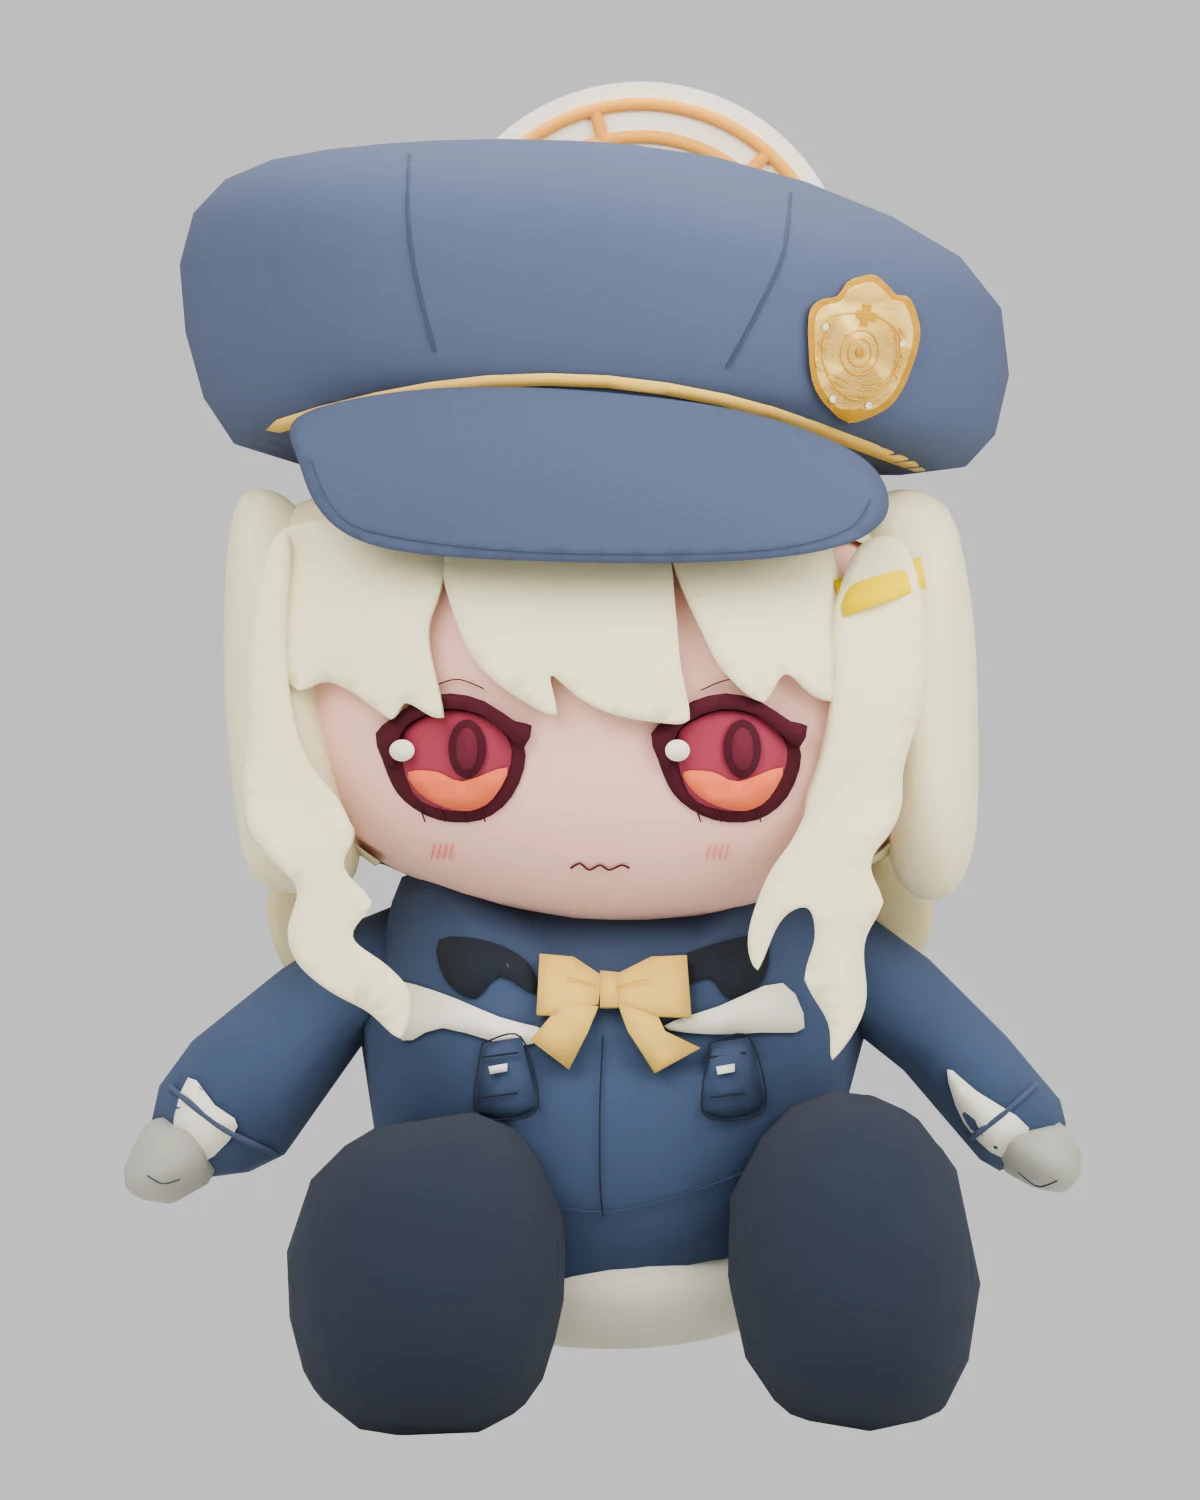
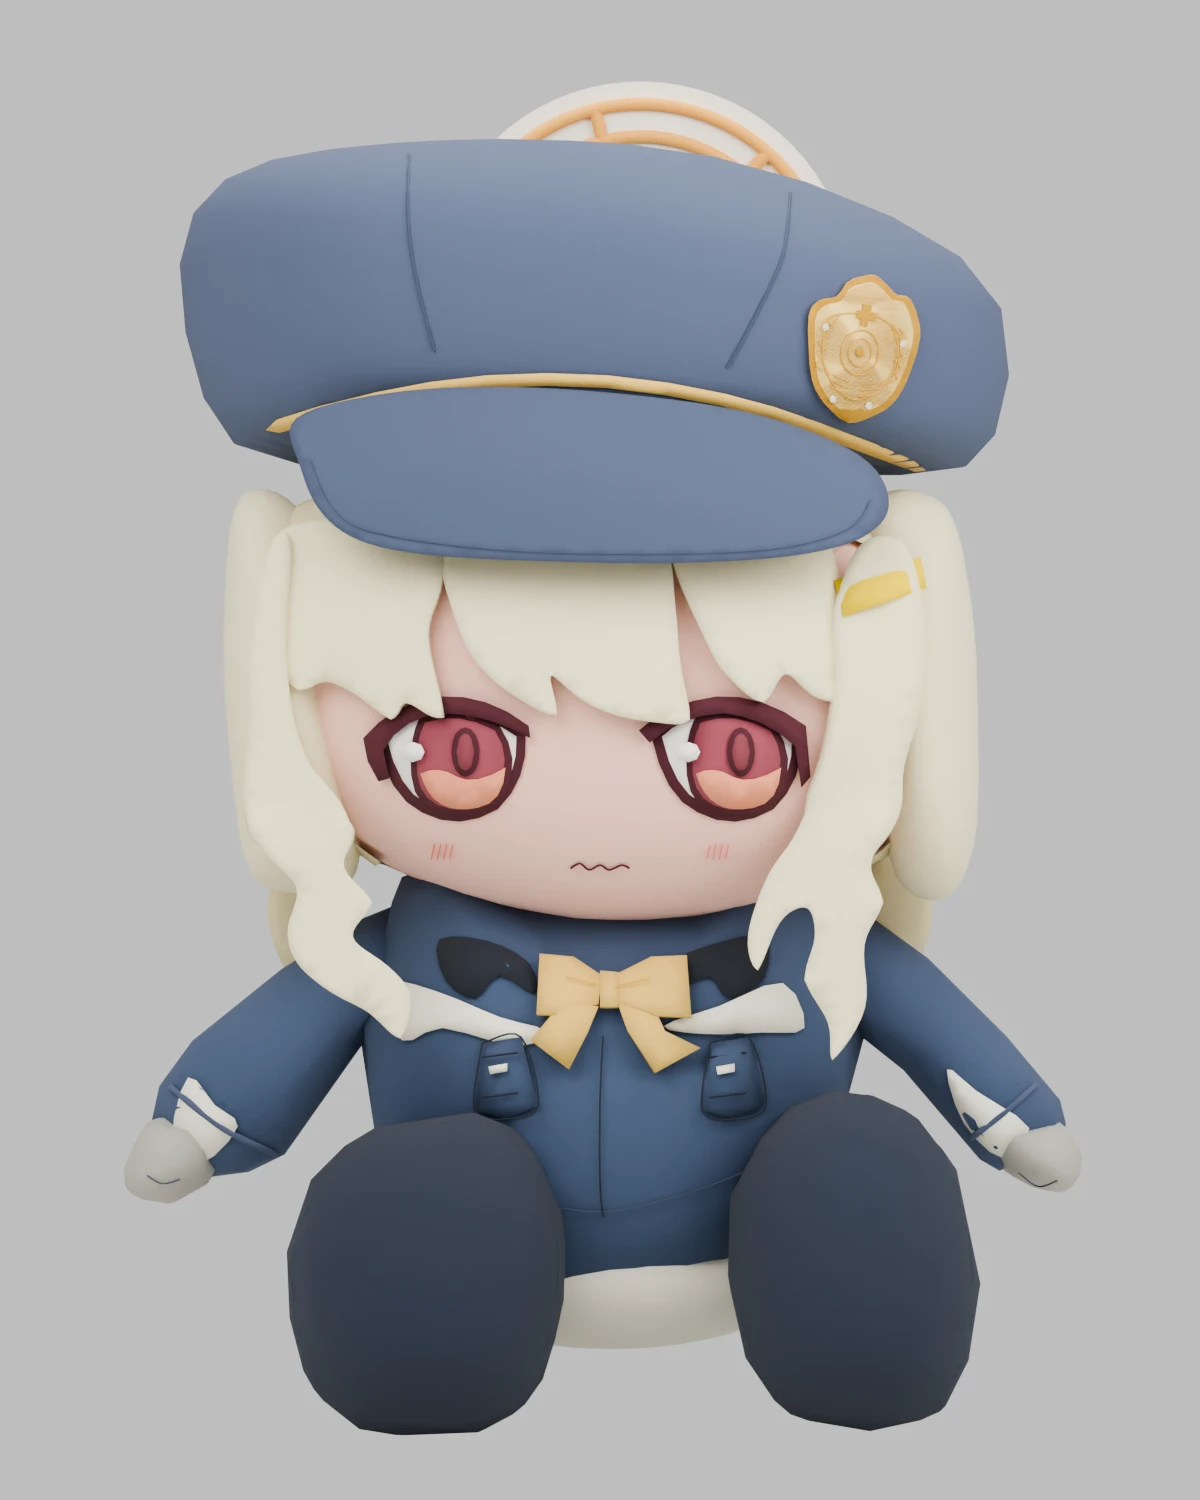
fix: restore Aoba scleras and soften eye embroidery
Assisted-by: codex:gpt-6-astra

Changed region(s): [[0.5242, 0.46, 0.6783, 0.552], [0.3083, 0.46, 0.4317, 0.552]]

diff --git a/model_aoba.py b/model_aoba.py
@@ -11,6 +11,7 @@ sys.path.insert(0, str(Path(__file__).parent))
 from plush_variants import (load_template, remove, color_material, surface, panel, seam,
                             oval, ellipsoid, mesh_object, warp, save)
 from restore_halo import felt, thread, attach
+from fix_eyes import rebuild_eyes
 
 parser = argparse.ArgumentParser(description=__doc__)
 parser.add_argument('--reference', help='Product photo; otherwise reuse the saved model reference')
@@ -28,10 +29,7 @@ glove = color_material('Aoba | grey mittens', (.68,.67,.63), '01 | warm peach sh
 ivory = mat['09 | ivory embroidery']
 bow = color_material('Aoba | butter yellow bow', (.92,.76,.41), '09 | ivory embroidery')
 clip = color_material('Aoba | yellow hair clip', (.98,.83,.035), '09 | ivory embroidery')
-outline = color_material('Aoba | burgundy eye outline', (.32,.10,.16), '14 | chocolate eye outlines')
-iris = color_material('Aoba | wine iris', (.63,.25,.32), '12 | amber iris satin stitch')
-iris_light = color_material('Aoba | coral iris', (.93,.47,.33), '13 | butter iris satin stitch')
-pupil = color_material('Aoba | dark rose pupils', (.43,.16,.22), '15 | brown pupils')
+outline = color_material('Aoba | burgundy face thread', (.32,.10,.16), '14 | chocolate eye outlines')
 halo_gold = color_material('Aoba | orange gold halo print', (.94,.67,.32), '04 | green sewing thread')
 stitch = mat['19 | dark blue sewing thread']
 # Preserve the approved depth fields and their existing edge extrapolation.
@@ -175,33 +173,11 @@ for side,points in [
               surface(obj, fallback='nearest'),clip,bone='hair_front.R',offset=.012,smooth=0,thickness=.008)
 
 # Wine-red embroidered eyes and the small wavering mouth.
+rebuild_eyes(root, 'Aoba')
 for side,shift in [('L',0),('R',178)]:
     shifted = lambda points: [(x+shift,y) for x,y in points]
-    panel(root,'Face | burgundy eye outline '+side,
-          shifted([(233,493),(246,477),(266,468),(291,469),(316,482),(327,503),
-                   (318,530),(298,545),(271,545),(249,533),(238,516)]),
-          face,outline,step=.035)
-    panel(root,'Face | wine iris '+side,
-          shifted([(246,493),(261,479),(282,474),(306,482),(318,500),
-                   (311,524),(295,537),(273,538),(254,527)]),
-          face,iris,offset=.013,step=.035)
-    panel(root,'Face | coral iris '+side,
-          shifted([(251,514),(270,514),(286,520),(315,511),(306,531),
-                   (291,539),(273,536),(258,527)]),
-          face,iris_light,offset=.018,step=.035)
-    oval(root,'Face | pupil border '+side,(289+shift,499),(12,19),face,outline,offset=.023,step=.03)
-    oval(root,'Face | rose pupil '+side,(289+shift,499),(7,14),face,pupil,offset=.027,step=.03)
-    panel(root,'Face | soft upper lashes '+side,
-          shifted([(230,489),(241,479),(257,468),(278,463),(300,468),(320,481),
-                   (331,484),(326,498),(315,490),(298,477),(276,473),(252,482),
-                   (244,496),(241,511),(234,505)]),
-          face,outline,offset=.030,step=.035,smooth=2)
-    oval(root,'Face | ivory glint '+side,(247+shift,500),(8,7),face,ivory,offset=.034,step=.03)
     seam(root,'Face | eyebrow '+side,shifted([(262,461),(282,454),(300,460)]),
          face,outline,radius=.0018)
-    for j in range(4):
-        seam(root,'Face | lower lash '+side,shifted([(259+j*13,537),(262+j*13,546)]),
-             face,outline,radius=.002)
     for j in range(4):
         x = 268+shift+j*4
         seam(root,'Face | blush '+side,[(x,561),(x-2,570)],face,

diff --git a/fix_eyes.py b/fix_eyes.py
@@ -35,7 +35,7 @@ def rebuild_eyes(root, student):
 
 if __name__ == '__main__':
     parser = argparse.ArgumentParser(description=__doc__)
-    parser.add_argument('--student', choices=['Hikari'], required=True)
+    parser.add_argument('--student', choices=['Hikari', 'Aoba'], required=True)
     parser.add_argument('--output', type=Path)
     args = parser.parse_args(sys.argv[sys.argv.index('--')+1:] if '--' in sys.argv else [])
     root = bpy.data.objects[f'{args.student.upper()} | 170 mm reference plush']

diff --git a/README.md b/README.md
@@ -40,6 +40,10 @@ The cream bob and curls, red eyes, yellow bow and hair clip, soft cap with an
 off-centre crest, work jacket, and circular gold halo follow the product and
 character references. The rig has 23 controls; Aoba has no tail control.
 
+The [eye pattern](./patterns/aoba_eyes.svg) keeps ivory scleras separate from the
+wine/coral irises and uses narrower pupils and rims. `model_aoba.py` applies the
+pattern on every rebuild; `test_eyes.py` checks front-view visibility.
+
 ## Posing
 
 Open `hikari_chocopuni.blend`, select `HIKARI | pose rig`, and enter Pose Mode.
